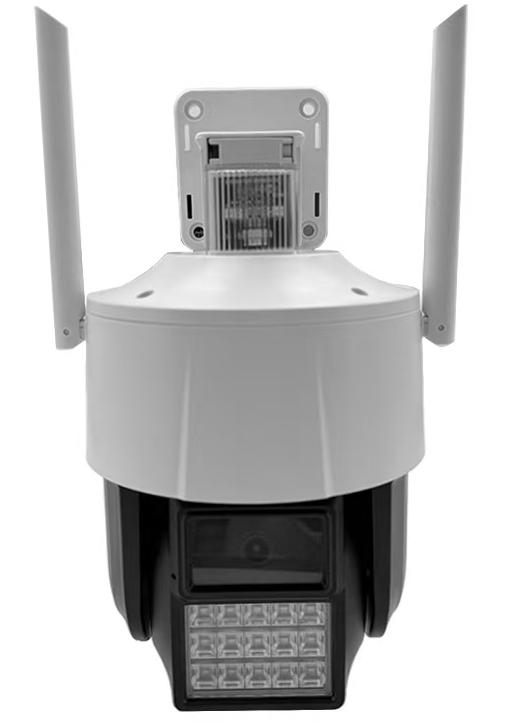
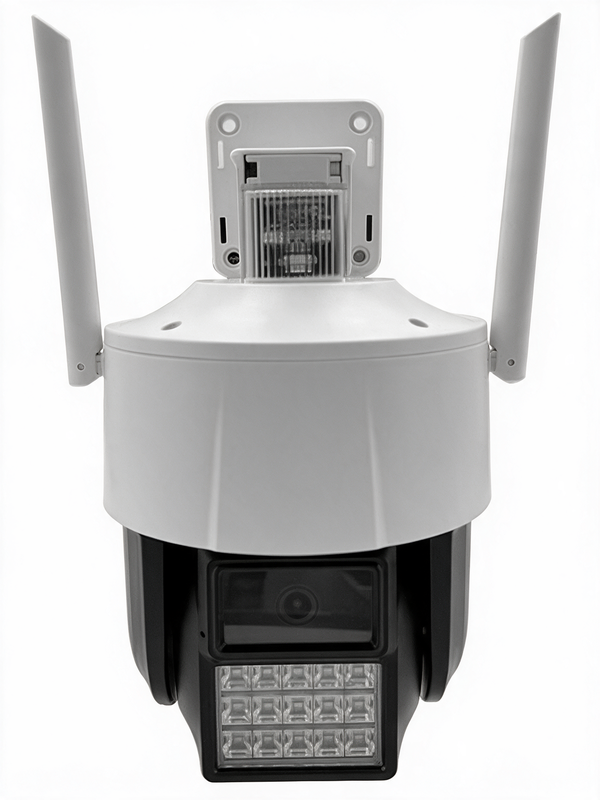
fix: 产品图完整展示（CSS改contain+固定高度居中）+ AI补全8张残缺产品图

diff --git a/css/tile-catalog.css b/css/tile-catalog.css
@@ -115,15 +115,22 @@
 }
 .tile-img {
   position: relative;
-  aspect-ratio: 1 / 1;
-  background: #f3f4f6;
+  height: 260px;
+  background: #fff;
   overflow: hidden;
+  display: flex;
+  align-items: center;
+  justify-content: center;
 }
 .tile-img img {
-  width: 100%;
-  height: 100%;
-  object-fit: cover;
+  max-width: 100%;
+  max-height: 100%;
+  width: auto;
+  height: auto;
+  object-fit: contain;
   display: block;
+  padding: 12px;
+  box-sizing: border-box;
 }
 .tile-noimg {
   position: absolute;
